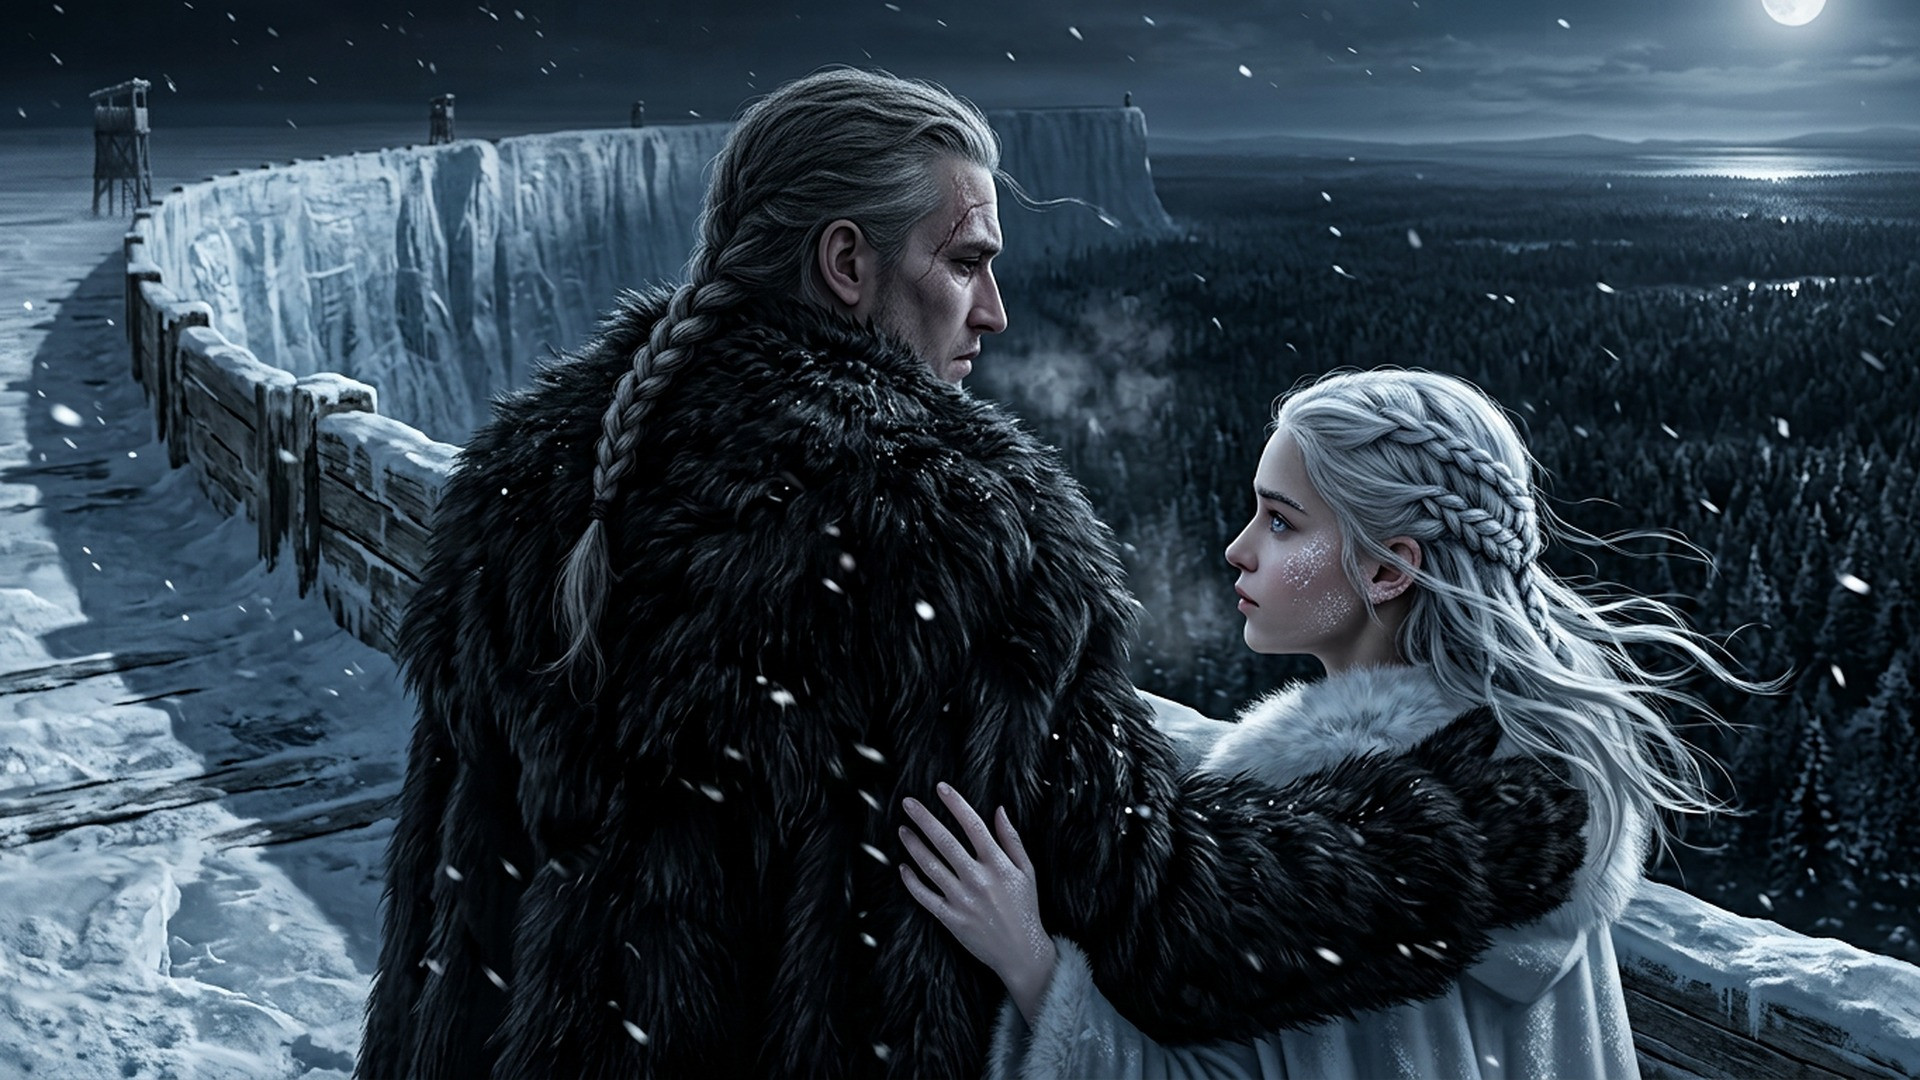
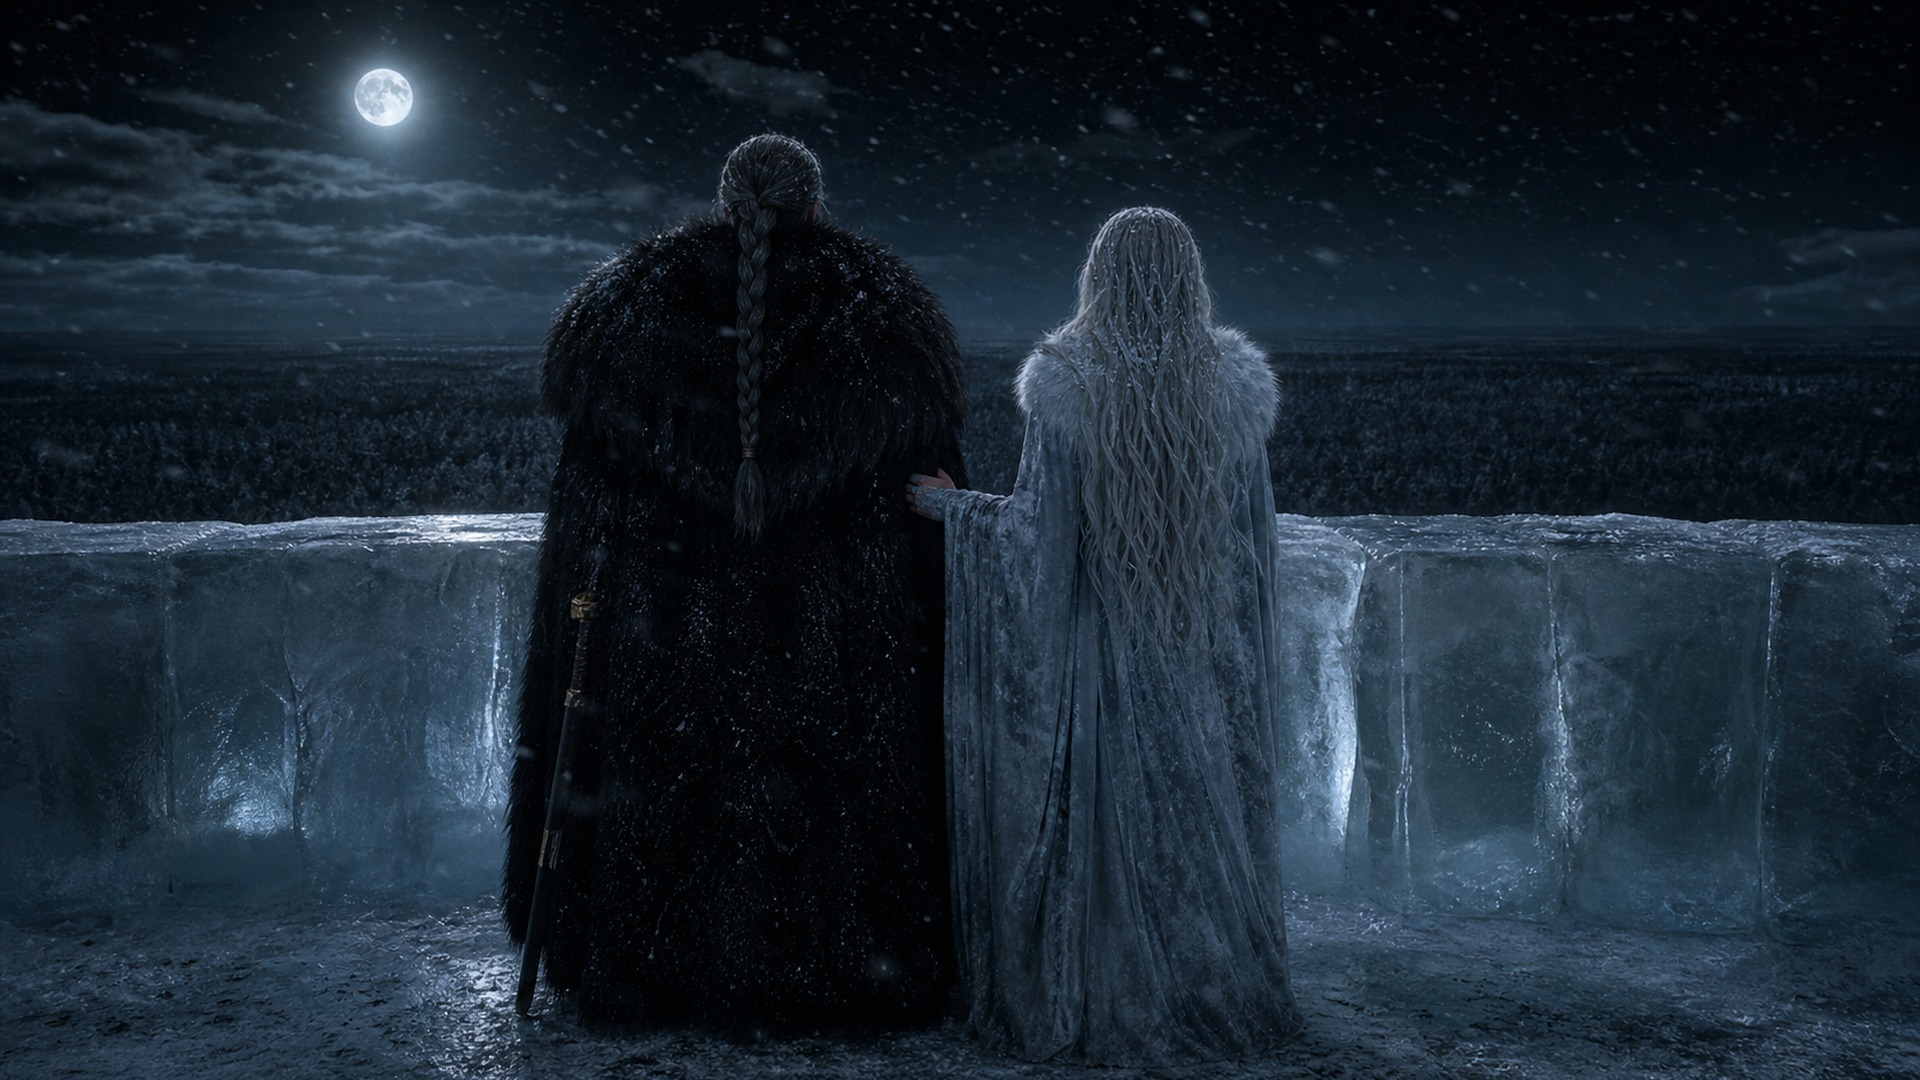
GOT001: stills 150/150 PASS (S140 redo, S144-S150); tracker v2.44; trigger mix check

diff --git a/projects/dune_archives/00_master/MASTER_INDEX_AND_TRACKER.md b/projects/dune_archives/00_master/MASTER_INDEX_AND_TRACKER.md
@@ -86,7 +86,7 @@ Folders 10, 11, 12, 19, 21, 22, 23 and 24 are empty on purpose. They fill once p
 |---|---|---|---|---|---|---|---|---|---|---|---|---|
 | DUN003 | Dune Messiah Explained Before Part Three | STANDARD | APPROVED (topic + 15 min + 150 imgs, 2026-11-23) | ☑ | ☑ 15 min | ☑ 150 imgs / 15 batches | v1.0 APPROVED | v1 (178 shots) | B001 ✅ · B002 ✅ · B003 ✅ · B004 ✅ · B005 ✅ · B006 ✅ · B007 4/10 (+Duncan pending, 1 fix) · B008 3/10 | — | — | — |
 | DUN001 | The Butlerian Jihad: The War Against the Thinking Machines | EPIC | **MASTER v1 ON DRIVE** 22_edit `1PpbtA6EKYWP-Inc31NuFSd0R0Y4immpj` (492.8 MB, 11:54, 1080p24, ≈−14.7 LUFS / −0.9 dBTP) — awaiting director review | ☑ | ☑ 11:54 | ☑ 150 imgs / 15 batches | v1.0 APPROVED · rev 1.1 (VI softened, approved) | data/dun001.py (168 cuts, 42 gfx incl. chapter cards) | B001–B015 ✅ **150/150 QC PASS** (anchors: Erasmus, Serena, Vorian, Xavier, Iblis, Agamemnon, Abulurd) | VO ✅ 13/13 · aligned 100% · maps A/B/C ✅ · mix ✅ −14 LUFS/−1 dBTP | — | — |
-| GOT001 | The Night King: Who Was He Really? | EPIC | IN PRODUCTION (script approved; VO 12/12; aligned 100%; timeline 10:35; stills 142/150) | ☑ | ☑ VO 598.7 s, 12/12 sections → programme ≈10:40 (runtime option A) | ☐ 150 imgs (142 PASS: B001–B013 130/130, B014 9/10, B015 3/10; S140 FIX) | v1.0 APPROVED | — | — | — | — | — |
+| GOT001 | The Night King: Who Was He Really? | EPIC | IN PRODUCTION (script approved; VO 12/12; aligned 100%; timeline 10:35; stills 150/150 ✅) | ☑ | ☑ VO 598.7 s, 12/12 sections → programme ≈10:40 (runtime option A) | ☑ 150 imgs (150 PASS, all 15 batches GENERATED_10_PASS) | v1.0 APPROVED | — | — | — | — | — |
 
 ## E. Data counts (from `00_master/build_summary.json`)
 
@@ -720,5 +720,6 @@ Index/QC v21 Doc: `1Xd5uubuVr8HSOOF7w4-m3S2es9A0PhxvI7hFvTYLZpw`. S012/S016 turn
 | v2.41 | 2026-11-25 | GOT001 S114 + S116 redos PASS; S118, S119, S121–S125 PASS (raven and scroll, the Others' leaderless ring, the Land of Always Winter, the children's root cave, Daenerys's three eggs, Coldhands leading the party, his black hands). S120 FIX (the Other's face drifted toward the show's wrinkled White Walker). Stills 124/150 |
 | v2.42 | 2026-11-25 | GOT001 S120 redo PASS (smooth book Other); S127–S134 PASS (the Wall's inner light, Leaf, Coldhands' scarf and eyes, the ghost ranger among weirwoods, the rider against the moon, wildlings digging into a glacier, the opened cairns, book Ygritte on the Wall). S126 FIX (painterly artefacts). Stills 133/150 |
 | v2.43 | 2026-11-25 | GOT001 S126 redo PASS; S135–S139, S141–S143 PASS (blank manuscript stack, the blizzard sweeping toward the Wall, Old Nan dozing, the Night's King as a legend under the aurora, the weeping heart tree, the Wall from the air, a wight's hand, Summer). S140 FIX (the queen reads as Daenerys). Stills 142/150 |
+| v2.44 | 2026-11-25 | **GOT001 stills complete: 150/150 PASS.** S140 redo (from behind, no faces) + S144–S150 (Hodor carrying Bran down the steps, the ice spires, the nine-weirwood oath grove, the queen's eye, giants on mammoths, Winterfell's heart tree with its black pool, the archive vault). Mix check triggered (got001_mix.yml); end-card QC render next, then master. |
 
 > Turn 22 note: the old manifests v11, continuity v1.4 and original tracker Doc have their Drive descriptions set to SUPERSEDED, pointing at the new IDs above. The Drive tracker v2.12 Doc is a snapshot taken before its own ID was added here.
